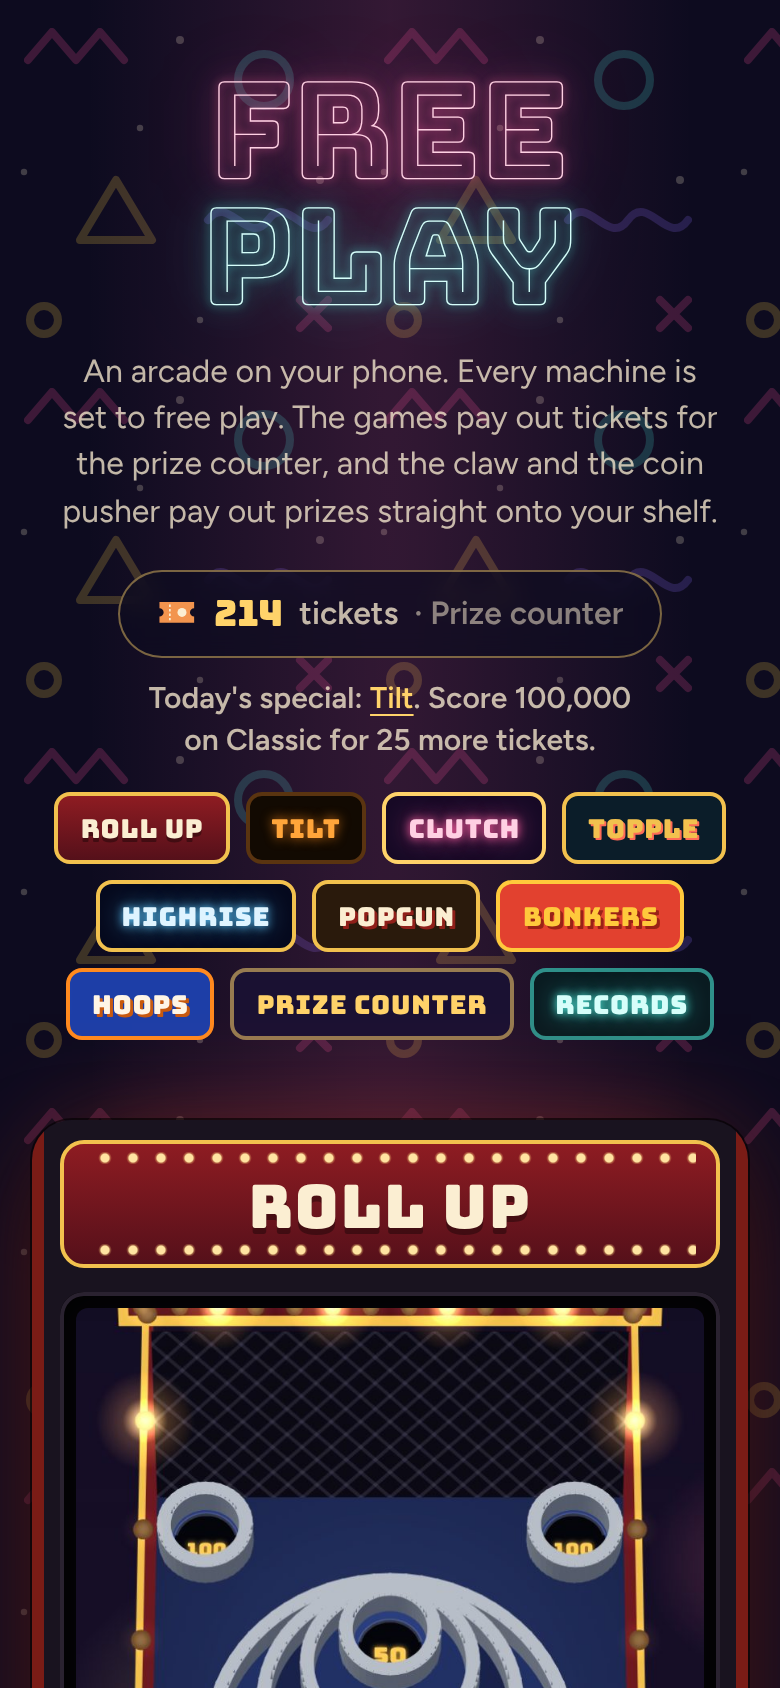
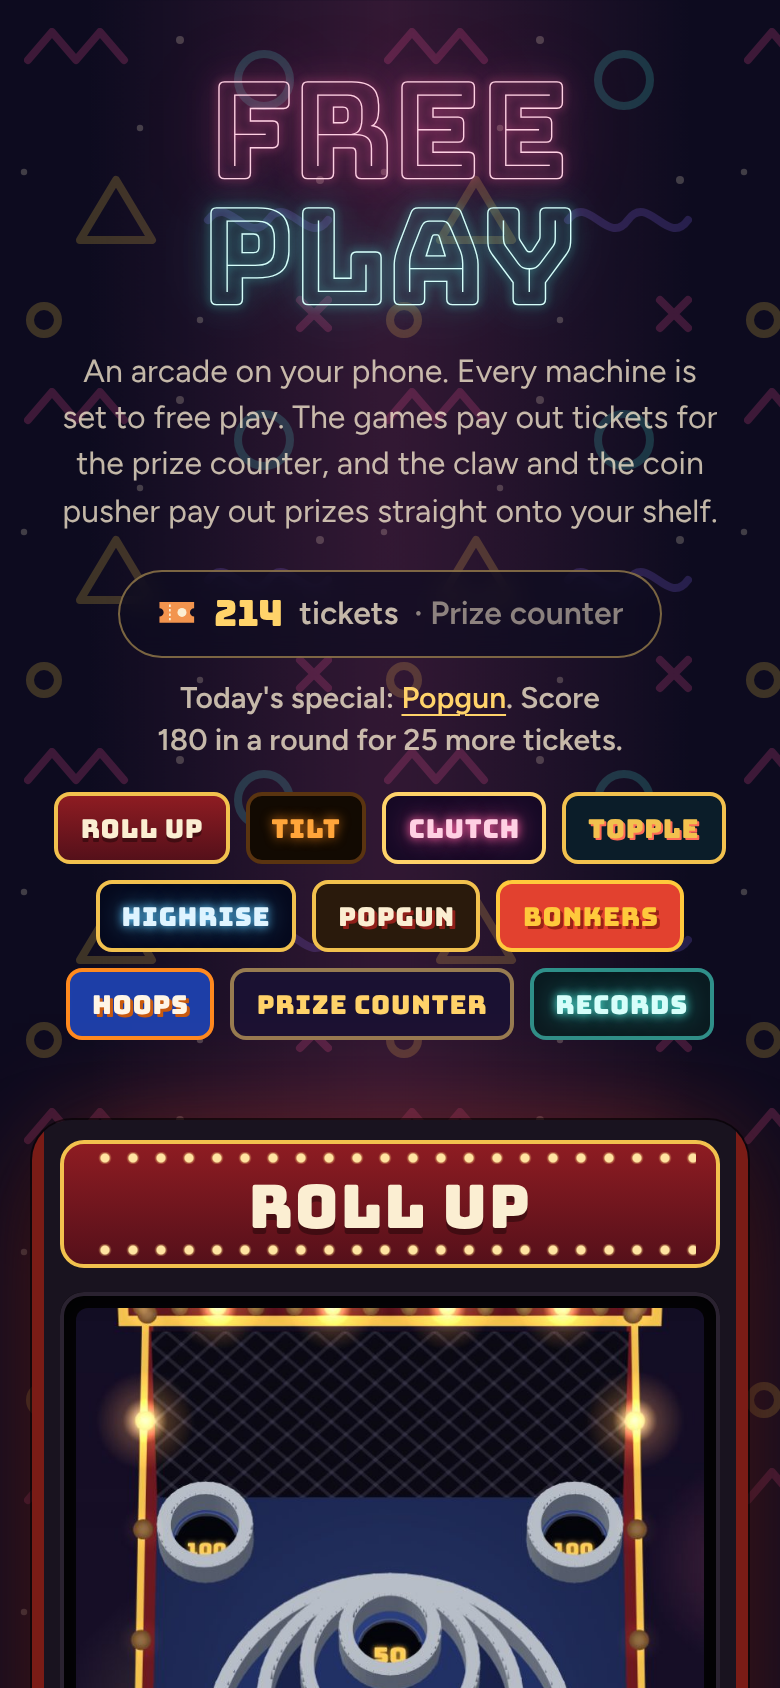
Clutch joins today's special: win the plush named for the day
Mark said yes to 'Clutch isn't in today's special yet'. Clutch has no
round with a score, so it was left out and six machines took turns.
Now it's in the run, between Tilt and Topple, with one of its six plush
(never the lucky star) drawn for the day the way Tilt's table is: the
floor says 'Today's special: Clutch. Win a plush alien for 25 more
tickets.', its badge says Special, and Clutch's title card says it too.
The first of that plush out of the prize door that day pays 25
tickets straight into the pocket, and the win card says 'Today's
special! 25 more tickets.' Seven machines take turns now, each once in
every seven days, never two days running. The goal was checked against
the stop Mark set (first goal with 40 to 60% of 20-go sittings making
it, five tries at most): the first one tried is in. Over 300 simulated
sittings each, the player aiming at the plush on top of the heap wins
the day's plush in 60%, the one dropping anywhere in 39%, about 49%
between them, and one who goes after the day's plush in 73%. The run
of days changes with seven in it, so 18 October, the screenshots' day,
is Popgun's now: the floor's picture and its description say so, and
the tests that open on a Tilt or Highrise day move to Oct 31 and Oct
22. Clutch's own test now has the special made in every page but its
new one, so a day that's really Clutch's can't add 25 tickets to a
pocket it counts. Tests: the unit test checks seven in turn, every
[…]

Changed region(s): [[0.1846, 0.4005, 0.8, 0.4621]]

diff --git a/shared/special.js b/shared/special.js
@@ -4,21 +4,26 @@
 // own (free-play.special: { key, machine }).
 //
 // The goals come from the simulated players at the machines' pay rates: each is about the middle of a casual player's
-// rounds (see the README). Clutch has no round with a score to set a goal on, so it isn't in the run yet.
+// rounds (see the README). Clutch has no round with a score, so its goal is a plush named for the day, which about
+// half of the simulated claw players' sittings of 20 goes win (6 in 10 aimed at the top of the heap, 4 in 10 dropped
+// anywhere, 7 in 10 going after that plush).
 
 import { dayKey, daysApart, seeded } from './calendar.js';
 import { pay } from './wallet.js';
 import { fmt } from './counter.js';
+import { PLUSH } from './prizes.js';
 
 export const KEY = 'free-play.special';
 export const BONUS = 25;
-// Tilt's goal is on one of its tables, drawn for the day with the machine.
+// Tilt's goal is on one of its tables, drawn for the day with the machine, and Clutch's is one of its plush (any but
+// the rare lucky star), drawn the same way.
 export const GOALS = {
   tilt: { classic: 100000, space: 400000, haunted: 50000 },
+  clutch: PLUSH.filter(p => !p.rare).map(p => p.kind),
   topple: 12, highrise: 10, popgun: 180, bonkers: 250, hoops: 55,
 };
 export const MACHINES = Object.keys(GOALS);
-const NAMES = { tilt: 'Tilt', topple: 'Topple', highrise: 'Highrise', popgun: 'Popgun', bonkers: 'Bonkers', hoops: 'Hoops' };
+const NAMES = { tilt: 'Tilt', clutch: 'Clutch', topple: 'Topple', highrise: 'Highrise', popgun: 'Popgun', bonkers: 'Bonkers', hoops: 'Hoops' };
 const TABLES = { classic: 'Classic', space: 'Space', haunted: 'Haunted House' };
 
 // The machines, a run of days at a time: each run has every one of them once, in an order drawn for that run, and a
@@ -35,19 +40,22 @@ function machineOn(key) {
   return order[d - n * MACHINES.length];
 }
 
-// The special for a day: { key, machine, name, goal, table (Tilt's), goalText ('score 250 in a round') }.
+// The special for a day: { key, machine, name, goal, table (Tilt's), plush (Clutch's, its kind, which is its goal too),
+// goalText ('score 250 in a round', 'win a plush frog') }.
 export function specialFor(key = dayKey()) {
   const machine = machineOn(key);
-  const s = { key, machine, name: NAMES[machine], table: null, goal: GOALS[machine] };
+  const s = { key, machine, name: NAMES[machine], table: null, plush: null, goal: GOALS[machine] };
   if (machine === 'tilt') {
     const ids = Object.keys(TABLES);
     s.table = ids[Math.floor(seeded('special-table:' + key)() * ids.length)];
     s.goal = GOALS.tilt[s.table];
   }
+  if (machine === 'clutch') s.goal = s.plush = GOALS.clutch[Math.floor(seeded('special-plush:' + key)() * GOALS.clutch.length)];
   s.goalText = machine === 'tilt' ? `score ${fmt(s.goal)} on ${TABLES[s.table]}`
-    : machine === 'topple' ? `win ${s.goal} tickets in one cup`
-      : machine === 'highrise' ? `build ${s.goal} floors`
-        : `score ${fmt(s.goal)} in a round`;
+    : machine === 'clutch' ? `win ${PLUSH.find(p => p.kind === s.plush).say}`
+      : machine === 'topple' ? `win ${s.goal} tickets in one cup`
+        : machine === 'highrise' ? `build ${s.goal} floors`
+          : `score ${fmt(s.goal)} in a round`;
   return s;
 }
 
@@ -56,8 +64,10 @@ export function madeToday(key = dayKey()) {
   try { return JSON.parse(localStorage.getItem(KEY))?.key === key; } catch { return false; }
 }
 
-// Whether a round makes the special: { score } (Highrise's floors built, Topple's tickets in the cup), and Tilt's table.
-export const meets = (s, r) => !!r && Number(r.score) >= s.goal && (s.machine !== 'tilt' || r.table === s.table);
+// Whether a round makes the special: { score } (Highrise's floors built, Topple's tickets in the cup), and Tilt's table;
+// or on Clutch, a plush won: { kind }.
+export const meets = (s, r) => !!r && (s.machine === 'clutch' ? r.kind === s.plush
+  : Number(r.score) >= s.goal && (s.machine !== 'tilt' || r.table === s.table));
 
 // A machine's round, at its end: if it's today's special, not made yet today, and the round makes it, it's made now and
 // pays its 25 tickets into the pocket. Gives the tickets it paid (0 when it didn't).

diff --git a/clutch/js/app.js b/clutch/js/app.js
@@ -1,7 +1,8 @@
 // Clutch: a claw machine, on the Free Play floor. This file runs it: the button, the goes, the plush won and the cards.
 // js/machine.js is the machine (matter-js moves the plush), js/draw.js draws it and js/sound.js makes the noises.
 // It's the one machine that pays in prizes, not tickets: each plush won goes straight on the arcade's shelf
-// (../shared/wallet.js). The prize counter is the arcade's too.
+// (../shared/wallet.js). The prize counter is the arcade's too. On its day as today's special (../shared/special.js),
+// the day's named plush pays 25 tickets as well, once.
 
 import { createMachine } from './machine.js';
 import { createDraw, drawPlush } from './draw.js';
@@ -9,7 +10,8 @@ import * as sound from './sound.js';
 import * as wallet from '../../shared/wallet.js';
 import { soundOn, switchSound } from '../../shared/sound.js';
 import { PLUSH } from '../../shared/prizes.js';
-import { openCounter, bigPrize, counterOpen, pocketButton, fmt } from '../../shared/counter.js';
+import { openCounter, bigPrize, counterOpen, pocketButton, fmt, bump } from '../../shared/counter.js';
+import { claim, titleLine, endLine } from '../../shared/special.js';
 import { insets } from '../../shared/insets.js';
 import { count } from '../../shared/records.js';
 
@@ -152,6 +154,7 @@ function happened() {
   }
 }
 
+let paid = 0; // today's special's tickets, paid by a plush on the way to the win card
 function won(w) {
   const prize = plushFor(w.kind);
   wallet.give(prize);
@@ -161,7 +164,10 @@ function won(w) {
   door = { ...w, t: 0 };
   glow = 2.4;
   sound.won(w.kind === 'star');
-  say(`You won ${prize.say}!`);
+  // today's special, on Clutch's day: the plush it names pays 25 tickets too, once, into the pocket
+  const bonus = claim('clutch', { kind: w.kind });
+  if (bonus) { paid += bonus; bump($('tixBtn')); }
+  say(`You won ${prize.say}!${bonus ? ` ${endLine(bonus)}` : ''}`);
   if (navigator.vibrate) try { navigator.vibrate([20, 50, 20]); } catch { /* not allowed */ }
   hud(true);
 }
@@ -185,6 +191,9 @@ function showWin() {
   $('winHow').textContent = got.some(w => w.kind === 'star')
     ? "The lucky star! They don't come along often. It's on your shelf now."
     : got.length > 1 ? `${['', '', 'Two', 'Three', 'Four', 'Five'][got.length] || got.length} at once! They're on your shelf now, with your prizes.` : "It's on your shelf now, with your prizes.";
+  $('winSpecial').textContent = endLine(paid);
+  $('winSpecial').hidden = !paid;
+  paid = 0;
   const art = $('winArt'), r = Math.min(2, devicePixelRatio || 1);
   art.width = 220 * r; art.height = 170 * r;
   const c = art.getContext('2d');
@@ -277,6 +286,12 @@ $('tixBtn').addEventListener('click', () => { sound.unlock(); openPrizes(); });
 for (const id of ['toPrizes', 'menuPrizes']) $(id).addEventListener('click', openPrizes);
 addEventListener('free-play:wallet', () => hud());
 addEventListener('pageshow', () => hud()); // back from the floor, where tickets may have been spent
+
+// Today's special, when it's Clutch's day: its plush on the title card (or that it's made).
+function special() { const t = titleLine('clutch'); $('titleSpecial').textContent = t; $('titleSpecial').hidden = !t; }
+special();
+addEventListener('pageshow', special);
+addEventListener('storage', e => { if (e.key === null || e.key?.startsWith('free-play.')) special(); });
 
 // Clutch open in another tab, or this page brought back by Back as it was: look at the save again, so a go here adds
 // to what's there now instead of writing an old copy over it.

diff --git a/clutch/index.html b/clutch/index.html
@@ -59,6 +59,7 @@
       <p class="how keys">On a keyboard: hold Space (or →) to move the claw, and let go to drop it.</p>
     </div>
     <div class="acts">
+      <p class="fp-special" id="titleSpecial" hidden></p>
       <div class="row">
         <button type="button" class="big" id="play">Play</button>
         <button type="button" class="plain" id="toPrizes"><svg><use href="#ticket"/></svg>Prize counter</button>
@@ -77,6 +78,7 @@
       <canvas class="art" id="winArt" aria-hidden="true"></canvas>
       <h2 id="winT">You got a plush frog.</h2>
       <p class="how" id="winHow">It's on your shelf now, with your prizes.</p>
+      <p class="fp-special" id="winSpecial" hidden></p>
     </div>
     <div class="acts">
       <div class="row">

diff --git a/sw.js b/sw.js
@@ -9,7 +9,7 @@
 // match (it says what to), which changes this file, so every copy is made whole again at once. Bump CACHE's number
 // as well when the list itself changes.
 const CACHE = 'free-play-v15';
-const FILES = 'b05a3074'; // test/arcade.test.mjs checks this
+const FILES = 'bae0b846'; // test/arcade.test.mjs checks this
 const SHELL = [
   './', 'index.html', 'icon.svg', 'manifest.webmanifest', 'icon-180.png', 'icon-192.png',
   // the page for an address that is not there

diff --git a/README.md b/README.md
@@ -5,7 +5,7 @@
 **An arcade on your phone.** Walk onto the floor and pick a machine: Roll Up, a skee-ball lane; Tilt, three pinball tables; Clutch, a claw machine full of plush; Topple, a coin pusher; Highrise, a stacker; Popgun, a shooting gallery; Bonkers, a whack-a-mole; or Hoops, a basketball machine. Every machine is set to free play. The games pay out tickets into the same pocket, for the same prize counter at the back, and the claw and the coin pusher pay out prizes, straight onto the same shelf. There's room on the floor for more machines.
 
 <p align="center">
-  <img src="docs/phone-floor.png" alt="The Free Play floor: FREE PLAY in pink and teal neon tubes over arcade carpet, 214 tickets in your pocket beside the words Prize counter, today's special under them (Tilt: score 100,000 on Classic for 25 more tickets), a row of buttons for the eight machines, the prize counter and Records, each in its sign's colours, and the Roll Up cabinet with its red and gold marquee and its screen showing the ring board" width="250">
+  <img src="docs/phone-floor.png" alt="The Free Play floor: FREE PLAY in pink and teal neon tubes over arcade carpet, 214 tickets in your pocket beside the words Prize counter, today's special under them (Popgun: score 180 in a round for 25 more tickets), a row of buttons for the eight machines, the prize counter and Records, each in its sign's colours, and the Roll Up cabinet with its red and gold marquee and its screen showing the ring board" width="250">
   &nbsp;
   <img src="docs/phone-roll-up.png" alt="Roll Up pushed in on the board as a ball drops into the 50 cup: chrome rings on a blue board with lit numbers 20, 30, 40 and 50, 100 cups in both top corners, and +50 rising over the cup" width="250">
   &nbsp;
@@ -31,10 +31,10 @@
 
 - **The floor** has a cabinet for each machine, showing what you've done on it: your best, today's card and how many days in a row you've played it, a cup still on the go on Topple, the plush you've won. Tap one to play. The row of buttons under your pocket goes straight to any machine's cabinet, or to the prize counter at the back. Every machine has a way back to the floor.
 - **Tickets.** Roll Up pays one for every 10 points, and a fair game earns about 25 to 35. Tilt pays one for every 5,000 on Classic and Space, and one for every 2,500 on Haunted House, the hard one, and a fair game earns about 50 to 70. They feed out of a slot at the end. Topple pays one for every two coins pushed over its front edge, about 8 to 18 a cup, Highrise one for every floor built, Popgun one for every 30 points, Bonkers one for every 15, and Hoops one for every 4.
-- **Plush and prizes.** Clutch is the one machine that pays in prizes instead of tickets: whatever its claw drops down the chute goes straight on your shelf. So does a prize pushed off Topple's deck. Everything won outright like that, and the trophies too, has its place on the shelf from the start, as a faint outline until it's yours (the lucky star and the giant gem a '?'), and a tap on one says where it's won. A line under the shelf counts each set: '4 of 7 plush'.
+- **Plush and prizes.** Clutch is the one machine that pays in prizes instead of tickets (but for today's special, below): whatever its claw drops down the chute goes straight on your shelf. So does a prize pushed off Topple's deck. Everything won outright like that, and the trophies too, has its place on the shelf from the start, as a faint outline until it's yours (the lucky star and the giant gem a '?'), and a tap on one says where it's won. A line under the shelf counts each set: '4 of 7 plush'.
 - **Trophies.** Every machine but Clutch and Topple (whose lucky star and giant gem play the part) has a trophy for its hardest feat, won outright, never sold, and put on your shelf the moment it's earned: eight of the nine calls on Roll Up's today's card; a 5x bonus on Tilt's Classic (the top lanes made four times on one ball), five jackpots in a game on Space, and the front door opened three times in a game on Haunted House; all fifteen floors of Highrise; a Popgun round with every cork a hit, the bell among them; a Bonkers round of 40 moles bonked and not one miss; and 32 baskets in a Hoops round. Each is a feat the best of the simulated players manages in fewer than one round in 50 (Tilt's, the autopilot made to react like a person), but for two. Hoops' is set within reach of a casual player: the simulated casual player makes 32 baskets about one round in 500, and a steady one about two rounds in five. And Roll Up's is on a card that comes once a day: the sharpest simulated player makes eight of its nine calls about one card in 25, and a good one about one in 1,000. They stand together at the end of the shelf, each on a plinth in its machine's colours, and a tap says what it's for.
 - **The prize counter** is on the floor and in every machine's menus. Trade tickets for anything from a 5-ticket lollipop to a 2,500-ticket enormous unicorn, and it sits on your shelf next to your plush. Above the unicorn, a 5,000-ticket giant gorilla and a 10,000-ticket life-size giraffe are there to save up for. Each prize you can't afford yet says under its price how far off it is: '180 to go'. Tap one and you can save up for it: the pocket on the floor then says how far off it is ('1,320 tickets · 180 to the giant teddy bear'), and so does the end card of every machine that pays tickets, under the dispenser ('180 to go for the giant teddy bear'), until you trade for it. A prize of 600 tickets or more is handed over: it comes down large onto a plank at the foot of the counter ('The enormous unicorn comes down off the top shelf.'), and inside a machine it gets a longer fanfare. Tapped the wrong one? For a few seconds after a trade, Undo gives the tickets back.
-- **Today's special.** Each day one machine is the special, the same one for everyone: the line under your pocket says which and what it wants (its name takes you there, to the right table on Tilt), its badge on the floor says Special, and its title card says so too. Make it in a round and that's 25 more tickets, out of the slot with the rest, once a day. Tilt, Topple, Highrise, Popgun, Bonkers and Hoops take turns, each once in every six days and never two days running (Roll Up has today's card, and Clutch has no score to aim at). Each goal is about the middle of a casual player's rounds, from the simulated players: 100,000 on Tilt's Classic, 400,000 on Space or 50,000 on Haunted House, 12 tickets in one Topple cup, 10 floors of Highrise, 180 at Popgun, 250 at Bonkers and 55 at Hoops.
+- **Today's special.** Each day one machine is the special, the same one for everyone: the line under your pocket says which and what it wants (its name takes you there, to the right table on Tilt), its badge on the floor says Special, and its title card says so too. Make it in a round and that's 25 more tickets, out of the slot with the rest, once a day. Clutch has no rounds, so on its day it names one of its plush instead ('Win a plush frog'): the first of those out of the prize door pays the 25 tickets, straight into your pocket. Tilt, Clutch, Topple, Highrise, Popgun, Bonkers and Hoops take turns, each once in every seven days and never two days running (Roll Up has today's card). Each goal is about the middle of a casual player's rounds, from the simulated players: 100,000 on Tilt's Classic, 400,000 on Space or 50,000 on Haunted House, the day's plush at Clutch (any but the lucky star), 12 tickets in one Topple cup, 10 floors of Highrise, 180 at Popgun, 250 at Bonkers and 55 at Hoops. Clutch's is about half of a sitting of 20 goes: over 300 simulated sittings each, a player aiming at the plush on top of the heap wins the day's plush in 6 sittings in 10, one dropping anywhere in 4 in 10, and one who goes after the day's plush in 7 in 10.
 - **Your records.** Every machine with a score keeps its top five, with the day each was set (Tilt one for each table), and its end card says when a round makes the list: 'Number 3 on your list.' **Records**, at the end of the row under your pocket, shows them all, with Roll Up's longest run of days, Highrise's top-outs and the plush you've won, and the arcade's all-time totals of tickets won, rounds played and prizes traded, counted from the day it started counting.
 - **Sound.** One switch for the whole arcade: Sound in any machine's menu, or at the foot of the floor, turns every machine on or off, in every open tab too.
 - **Between the floor and a machine** the pages crossfade, and a machine's cards fade up, unless the phone is set to cut down motion (in Chrome 126 and Safari 18.2 on; other browsers cut straight across).
@@ -100,6 +100,7 @@ A claw machine, seen through the glass, heaped with plush: bears, chicks, frogs,
 - **Hold the button** and the claw slides across the top of the box. **Let go** and it drops, closes its arms, lifts, carries whatever it caught back over the chute in the corner, and lets go. Anything that falls down the chute comes out of the prize door and is yours. A press too short to take the claw past the chute's clear wall isn't a go: it slides back and waits for a proper hold. Dropped right beside the wall, the claw comes down with its left arm pushed in by the glass, not through it, and let go within about 3 cm of it, the claw's head comes to rest on the wall's top and the arms close there.
 - **Aim for the middle.** The grab is judged as the arms close: a plush that sits square between them, with the hooks closing under its middle, usually makes it to the chute. One caught by its edge, or only round its sides, tends to slip off on the way, and some goes the claw just doesn't grip as hard, the way real ones are set. Over the middle of the plush on top of the heap, about one go in three wins something; dropped anywhere, about one in six.
 - **Real heaps.** The plush are soft bodies piled up in a 2D physics world ([matter-js](https://brm.io/matter-js/)): the claw shoves them about on the way down, and a slipped one falls back wherever it lands. When the heap runs low, the machine is topped up between goes.
+- **Today's special.** On Clutch's day, the line under your pocket and the title card name one of the plush: win one of those, in any go, for 25 more tickets, once that day. The win card says so.
 - **The keyboard works too.** Hold Space (or →) to move the claw, and let go to drop it.
 
 ## Topple
